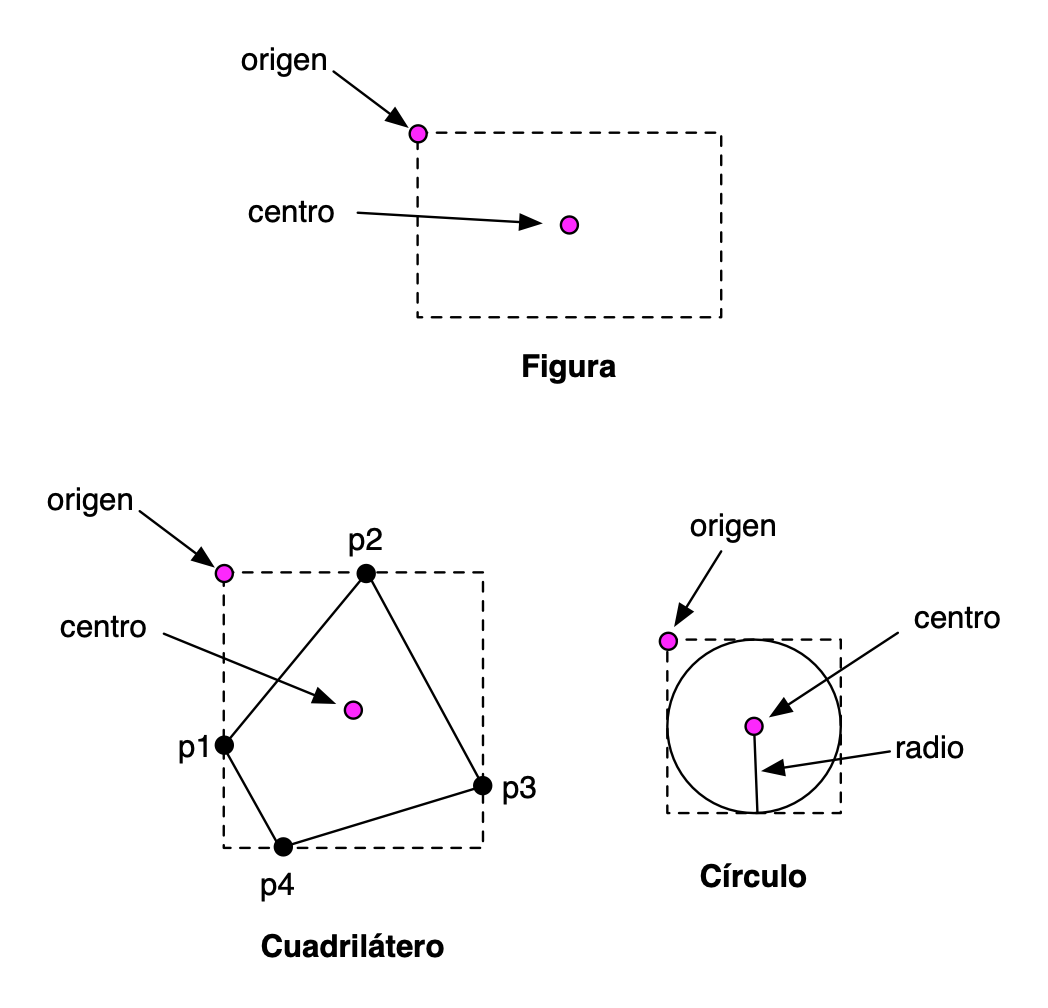
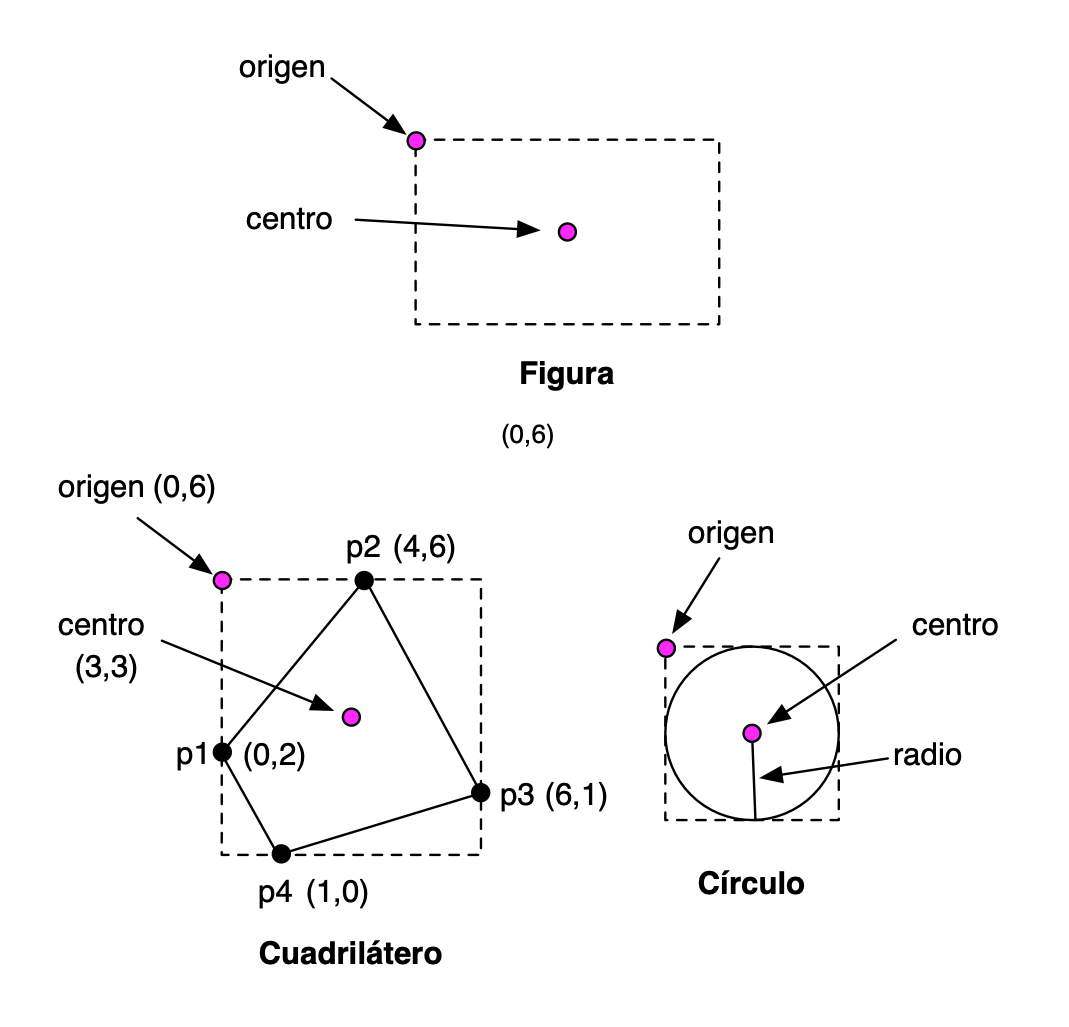
Corrección práctica 10: coordenadas cartesianas

diff --git a/docs/practicas/practica10/practica10.md b/docs/practicas/practica10/practica10.md
@@ -162,11 +162,11 @@ import Foundation
 - El valor de la constante matemática _pi_ lo puedes obtener con la
   propiedad `Double.pi`.
 
-Suponemos que estamos trabajando con coordenadas
-de pantalla, en las que la coordenada (0,0) representa la coordenada
-de la esquina superior izquierda de la pantalla. La coordenada Y crece
-hacia abajo y la coordenada X crece hacia la derecha. Las coordenadas
-se definirán con números decimales (`Double`).
+Suponemos que estamos trabajando con coordenadas cartesianas, en las
+que la coordenada (0,0) representa la coordenada de la esquina
+inferior izquierda de la pantalla. La coordenada Y crece hacia arriba y
+la coordenada X crece hacia la derecha. Las coordenadas se definirán
+con números decimales (`Double`).
 
 Vamos a definir las siguientes estructuras y clases:
 
